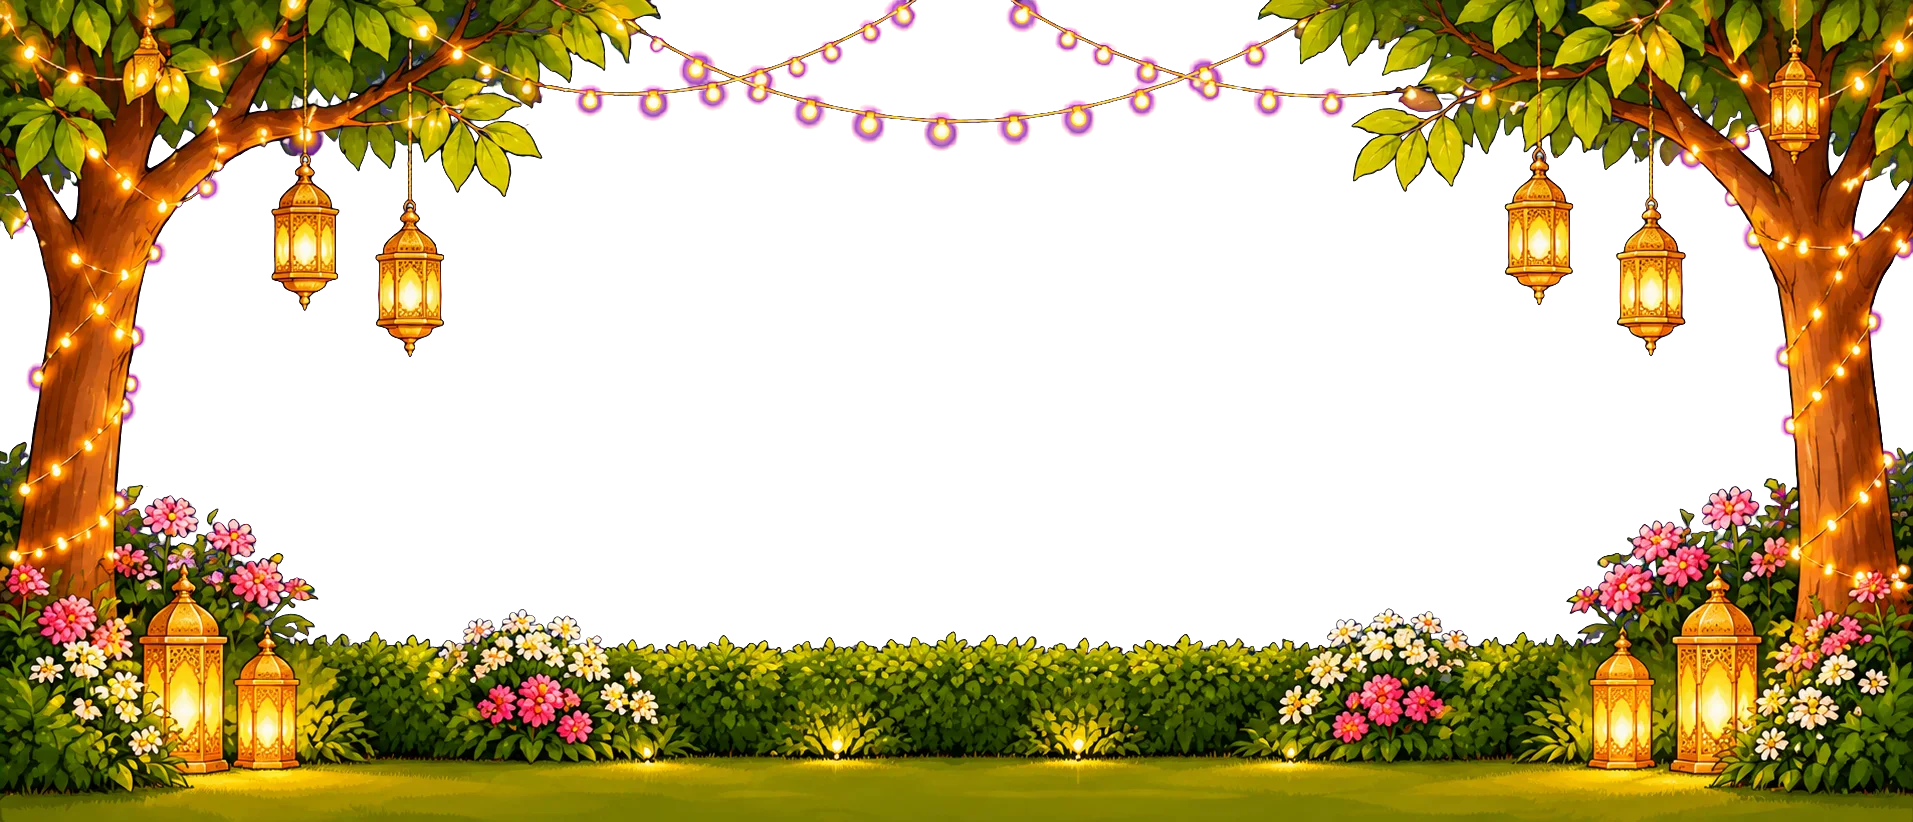
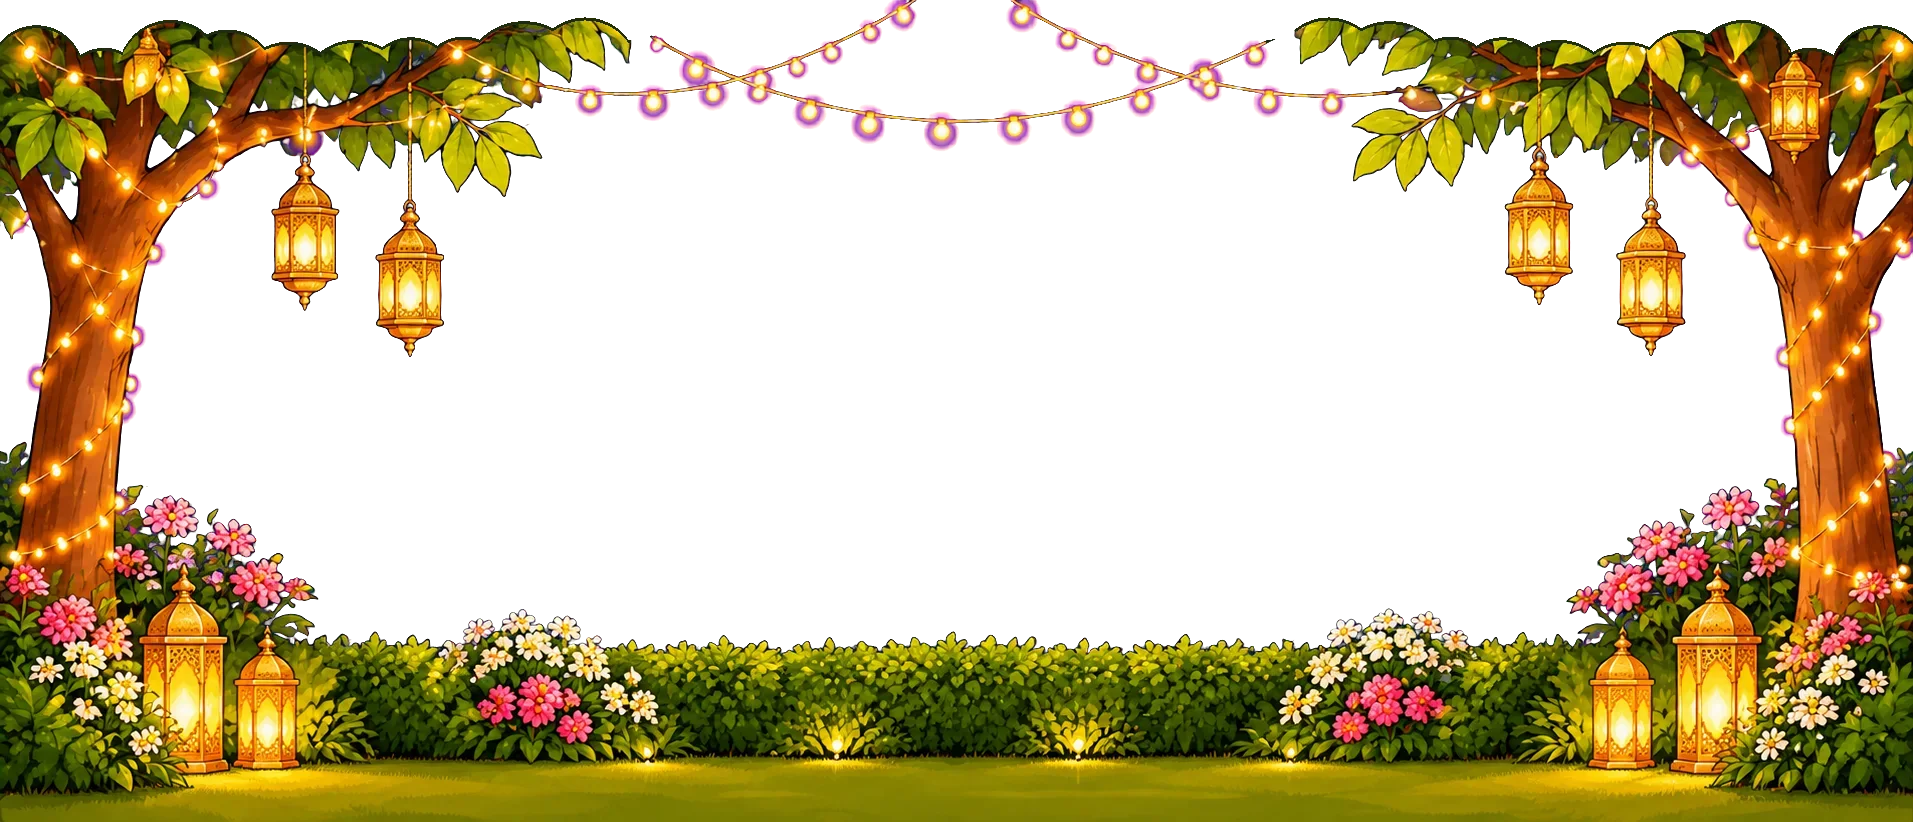
Wedding skyline and Sangeet garden: whole on laptops, lifted on phones, rising in
- Laptops: the Kolkata and Jamshedpur skyline spans the full width; the garden repeats across it
- Phones: both sit higher so Howrah Bridge and the lit trees show above the stage
- Both rise up from behind the stage as the scene opens
- The garden's tree crowns are rounded off instead of cut by the picture edge (scripts/crown-garden.py)

Changed region(s): [[0.6477, 0.0, 1.0, 0.0608], [0.0, 0.0, 0.3393, 0.0608]]

diff --git a/src/scenes/scenes.js b/src/scenes/scenes.js
@@ -214,7 +214,7 @@ export const SCENES = [
       // the bride's Kolkata and the groom's Jamshedpur on the skyline behind the stage, the red carpet with its alpana
       // laptops: the skyline spans the whole width; phones: lifted so Howrah Bridge shows above the stage
       L('city-w', 2200, 605, { art: 'wedding-city-art', y: 300, z: 2, full: true }),
-      L('city-t', 1300, 358, { art: 'wedding-city-art', y: 720, z: 2 }),
+      L('city-t', 1300, 358, { art: 'wedding-city-art', y: 680, z: 2 }),
       L('wedding-floor', 2200, 330, { z: 2, full: true, kind: 'ground' }),
       L('wedding-stage-small', 1000, 621, { y: 330, z: 3 }),
       L('wedding-hanging', 1100, 350, { full: true, ay: 't', y: -24, z: 4 }),

diff --git a/scripts/crown-garden.py b/scripts/crown-garden.py
@@ -1,0 +1,52 @@
+# The Sangeet garden (src/art/sangeet-garden.webp) was drawn with its two tree crowns running off the top edge,
+# which shows on the site as a ruled line. This rounds those crowns off into leafy bumps with an ink edge,
+# the same at both ends so the picture still repeats side by side. Run after `npm run art sangeet-garden`:
+#   python3 scripts/crown-garden.py
+from PIL import Image
+import numpy as np
+
+P = 'src/art/sangeet-garden.webp'
+im = Image.open(P).convert('RGBA')
+a = np.asarray(im).copy()
+H, W = a.shape[:2]
+k = W / 1913  # the numbers below are for the 1913 px wide picture
+
+# leafy bumps along the crowns (left crown, and the right one mirrored so the two ends meet)
+rng = np.random.default_rng(7)
+left = []
+x = -30
+while x < 700:
+    r = rng.uniform(42, 64)
+    left.append((x, rng.uniform(62, 96), r))
+    x += rng.uniform(52, 70)
+bumps = [(cx * k, cy * k, r * k) for cx, cy, r in left] + [(W - cx * k, cy * k, r * k) for cx, cy, r in left]
+top = np.zeros(W)
+for xi in range(W):
+    best = None
+    for cx, cy, r in bumps:
+        d = abs(xi - cx)
+        if d < r:
+            y = cy - np.sqrt(r * r - d * d)
+            best = y if best is None else min(best, y)
+    top[xi] = 0 if best is None or (700 * k < xi < W - 700 * k) else max(0, best)
+
+ink = np.array([30, 44, 20])
+for xi in range(W):
+    t = int(round(top[xi]))
+    if t <= 0:
+        continue
+    a[:t, xi, 3] = 0
+    # a short ink line along the new edge, only where there is something painted
+    for y in range(t, min(H, t + max(2, int(3 * k)))):
+        if a[y, xi, 3] > 40:
+            a[y, xi, :3] = ink
+# close the edge where neighbouring columns step (the sides of each bump)
+for xi in range(1, W):
+    lo, hi = sorted((int(round(top[xi - 1])), int(round(top[xi]))))
+    if hi - lo > 1:
+        for y in range(lo, hi):
+            if a[y, xi, 3] > 40: a[y, xi, :3] = ink
+            if a[y, xi - 1, 3] > 40: a[y, xi - 1, :3] = ink
+
+Image.fromarray(a).save(P, quality=84, method=6)
+print('sangeet-garden: crowns rounded')
